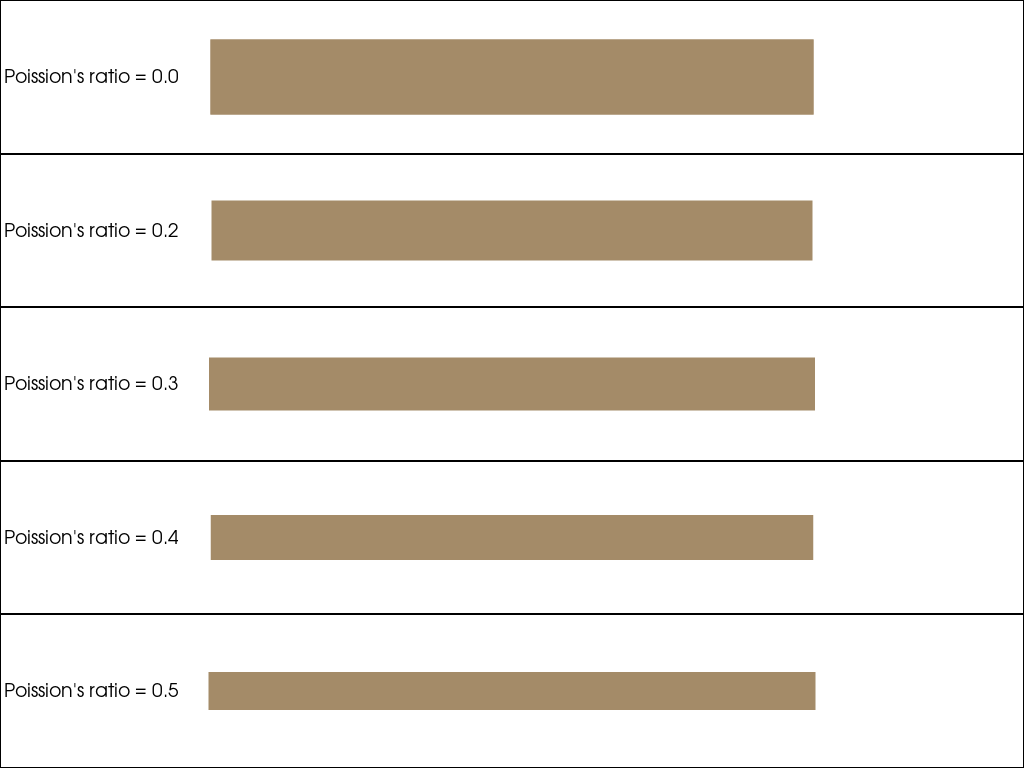
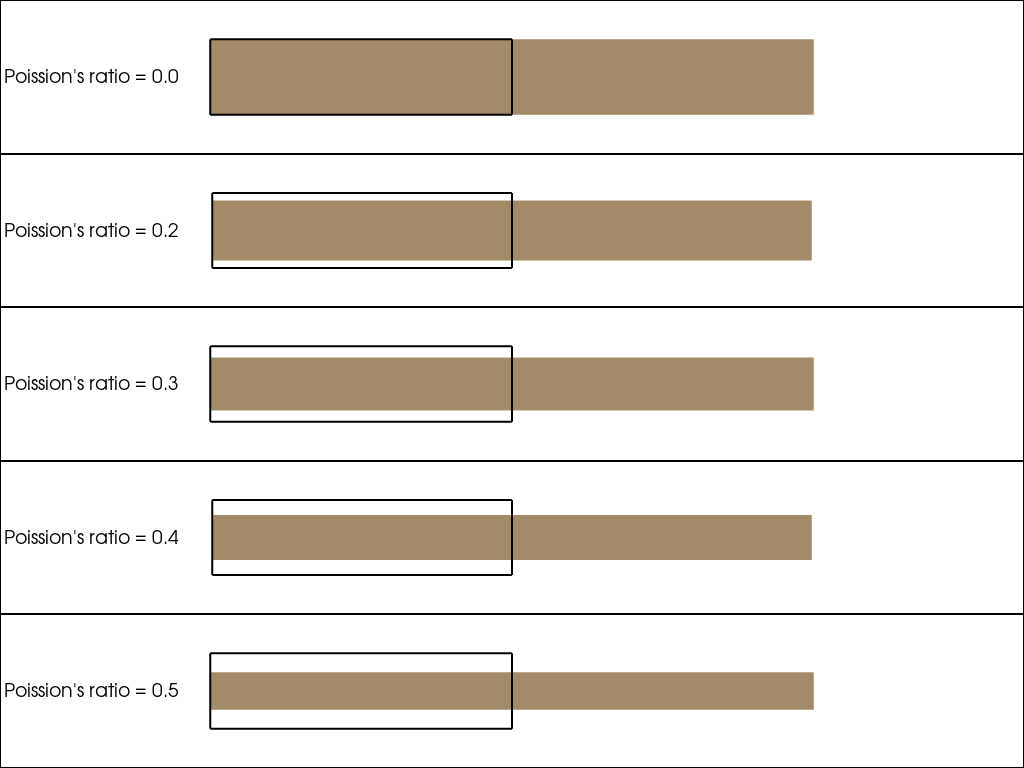
Add extract_feature_edges

diff --git a/test_poissons_ratio.py b/test_poissons_ratio.py
@@ -129,26 +129,31 @@ p = pv.Plotter(shape=(5, 1))
 p.subplot(0, 0)
 p.add_text("Poission's ratio = " + str(nus[0]), position="left_edge", font_size=9)
 p.add_mesh(d0.warp_by_vector(), line_width=2)
+p.add_mesh(d0.extract_feature_edges(), line_width=2, color="black")
 p.camera_position = "xy"
 p.camera.zoom(4.0)
 p.subplot(1, 0)
 p.add_text("Poission's ratio = " + str(nus[1]), position="left_edge", font_size=9)
 p.add_mesh(d1.warp_by_vector(), line_width=2)
+p.add_mesh(d1.extract_feature_edges(), line_width=2, color="black")
 p.camera_position = "xy"
 p.camera.zoom(4.0)
 p.subplot(2, 0)
 p.add_text("Poission's ratio = " + str(nus[2]), position="left_edge", font_size=9)
 p.add_mesh(d2.warp_by_vector(), line_width=2)
+p.add_mesh(d2.extract_feature_edges(), line_width=2, color="black")
 p.camera_position = "xy"
 p.camera.zoom(4.0)
 p.subplot(3, 0)
 p.add_text("Poission's ratio = " + str(nus[3]), position="left_edge", font_size=9)
 p.add_mesh(d3.warp_by_vector(), line_width=2)
+p.add_mesh(d3.extract_feature_edges(), line_width=2, color="black")
 p.camera_position = "xy"
 p.camera.zoom(4.0)
 p.subplot(4, 0)
 p.add_text("Poission's ratio = " + str(nus[4]), position="left_edge", font_size=9)
 p.add_mesh(d4.warp_by_vector(), line_width=2)
+p.add_mesh(d4.extract_feature_edges(), line_width=2, color="black")
 p.camera_position = "xy"
 p.camera.zoom(4.0)
 p.show(screenshot="Displacements.png")
